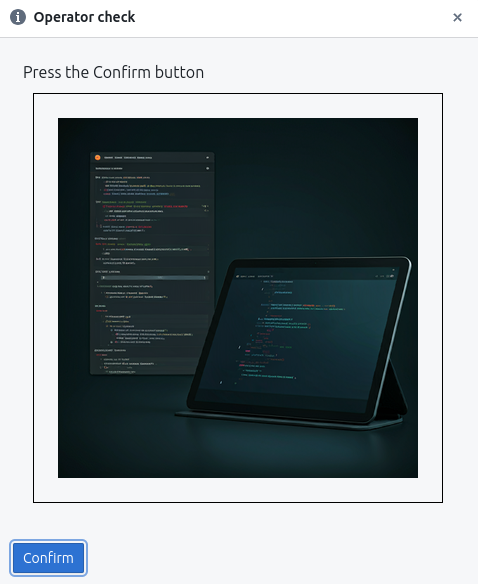
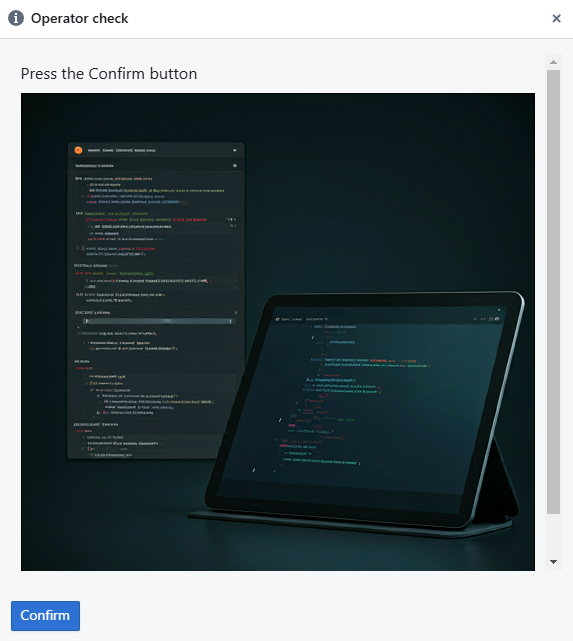
[hardpy] replace screenshots

diff --git a/hardpy/pytest_hardpy/utils/dialog_box.py b/hardpy/pytest_hardpy/utils/dialog_box.py
@@ -28,9 +28,7 @@ class WidgetType(Enum):
 class IWidget(ABC):
     """Dialog box widget interface."""
 
-    def __init__(
-        self, widget_type: WidgetType,
-    ) -> None:
+    def __init__(self, widget_type: WidgetType) -> None:
         self.type: Final[str] = widget_type.value
         self.info: dict = {}
 
@@ -172,70 +170,6 @@ class CheckboxWidget(IWidget):
             return None
 
 
-class ImageComponent:
-    """Image component."""
-
-    def __init__(
-        self,
-        address: str,
-        width: int = 100,
-        border: int = 0,
-    ) -> None:
-        """Validate the image fields and defines the base64 if it does not exist.
-
-        Args:
-            address (str): image address
-            width (int): image width
-            border (int): image border
-
-        Raises:
-            ImageError: If both address and base64data are specified.
-        """
-        if width < 1:
-            msg = "Width must be positive"
-            raise WidgetInfoError(msg)
-
-        if border < 0:
-            msg = "Border must be non-negative"
-            raise WidgetInfoError(msg)
-
-        try:
-            with open(address, "rb") as file:  # noqa: PTH123
-                file_data = file.read()
-        except FileNotFoundError:
-            msg = "The image address is invalid"
-            raise ImageError(msg)  # noqa: B904
-        self.address = address
-        self.width = width
-        self.border = border
-        self.base64 = base64.b64encode(file_data).decode("utf-8")
-
-
-    def convert_data(self, input_data: str | None = None) -> bool:  # noqa: ARG002
-        """Get the image component data, i.e. None.
-
-        Args:
-            input_data (str | None): input string or nothing.
-
-        Returns:
-            bool: True if confirm button is pressed
-        """
-        return True
-
-    def to_dict(self) -> dict:
-        """Convert ImageComponent to dictionary.
-
-        Returns:
-            dict: ImageComponent dictionary.
-        """
-        return {
-            "address": self.address,
-            "width": self.width,
-            "base64": self.base64,
-            "border": self.border,
-        }
-
-
 class StepWidget(IWidget):
     """Step widget.
 
@@ -279,9 +213,7 @@ class StepWidget(IWidget):
 class MultistepWidget(IWidget):
     """Multistep widget."""
 
-    def __init__(
-        self, steps: list[StepWidget],
-    ) -> None:
+    def __init__(self, steps: list[StepWidget]) -> None:
         """Initialize the MultistepWidget.
 
         Args:
@@ -308,6 +240,58 @@ class MultistepWidget(IWidget):
             bool: True if confirm button is pressed
         """
         return True
+
+
+class ImageComponent:
+    """Image component."""
+
+    def __init__(
+        self,
+        address: str,
+        width: int = 100,
+        border: int = 0,
+    ) -> None:
+        """Validate the image fields and defines the base64 if it does not exist.
+
+        Args:
+            address (str): image address
+            width (int): image width
+            border (int): image border
+
+        Raises:
+            ImageError: If both address and base64data are specified.
+        """
+        if width < 1:
+            msg = "Width must be positive"
+            raise WidgetInfoError(msg)
+
+        if border < 0:
+            msg = "Border must be non-negative"
+            raise WidgetInfoError(msg)
+
+        try:
+            with open(address, "rb") as file:  # noqa: PTH123
+                file_data = file.read()
+        except FileNotFoundError:
+            msg = "The image address is invalid"
+            raise ImageError(msg)  # noqa: B904
+        self.address = address
+        self.width = width
+        self.border = border
+        self.base64 = base64.b64encode(file_data).decode("utf-8")
+
+    def to_dict(self) -> dict:
+        """Convert ImageComponent to dictionary.
+
+        Returns:
+            dict: ImageComponent dictionary.
+        """
+        return {
+            "address": self.address,
+            "width": self.width,
+            "base64": self.base64,
+            "border": self.border,
+        }
 
 
 @dataclass

diff --git a/examples/dialog_box/test_3_choice_control.py b/examples/dialog_box/test_3_choice_control.py
@@ -30,7 +30,7 @@ def test_radiobutton_with_image():
         dialog_text='Select item "one" out of several and click Confirm.',
         title_bar="Radiobutton example",
         widget=RadiobuttonWidget(fields=["one", "two", "three"]),
-        image=ImageComponent(address="assets/test.png", width=50),
+        image=ImageComponent(address="assets/image.png", width=100),
     )
     response = run_dialog_box(dbx)
     set_message(f"Selected item {response}")
@@ -56,7 +56,7 @@ def test_checkbox_with_image():
         dialog_text='Select items "one" and "two" and click the Confirm button',
         title_bar="Checkbox example",
         widget=CheckboxWidget(fields=["one", "two", "three"]),
-        image=ImageComponent(address="assets/test.png", width=50),
+        image=ImageComponent(address="assets/image.png", width=100),
     )
     response = run_dialog_box(dbx)
     set_message(f"Selected item {response}")

diff --git a/examples/dialog_box/test_2_input_field.py b/examples/dialog_box/test_2_input_field.py
@@ -30,7 +30,7 @@ def test_text_input_with_image():
         dialog_text="Type 'ok' and press the Confirm button",
         title_bar="Example of text input",
         widget=TextInputWidget(),
-        image=ImageComponent(address="assets/test.png", width=50),
+        image=ImageComponent(address="assets/image.png", width=100),
     )
     response = run_dialog_box(dbx)
     set_message(f"Entered text {response}")
@@ -57,7 +57,7 @@ def test_num_input_with_image():
         dialog_text=f"Enter the number {test_num} and press the Confirm button",
         title_bar="Example of entering a number",
         widget=NumericInputWidget(),
-        image=ImageComponent(address="assets/test.png", width=50),
+        image=ImageComponent(address="assets/image.png", width=100),
     )
     response = int(run_dialog_box(dbx))
     set_message(f"Entered number {response}")

diff --git a/examples/dialog_box/test_1_base_box.py b/examples/dialog_box/test_1_base_box.py
@@ -25,7 +25,18 @@ def test_base_dialog_box_with_image():
     dbx = DialogBox(
         title_bar="Operator check",
         dialog_text="Press the Confirm button",
-        image=ImageComponent(address="assets/test.png", width=50),
+        image=ImageComponent(address="assets/image.png", width=100),
+    )
+    response = run_dialog_box(dbx)
+    assert response
+
+
+@pytest.mark.case_name("Base dialog box with image")
+def test_base_dialog_box_with_image_with_border():
+    dbx = DialogBox(
+        title_bar="Operator check",
+        dialog_text="Press the Confirm button",
+        image=ImageComponent(address="assets/image.png", width=100, border=1),
     )
     response = run_dialog_box(dbx)
     assert response

diff --git a/examples/dialog_box/test_4_send_image.py b/examples/dialog_box/test_4_send_image.py
@@ -9,7 +9,7 @@ pytestmark = pytest.mark.module_name("Image dialog box")
 def test_upload_image():
     dbx = DialogBox(
         dialog_text="Test image",
-        image=ImageComponent(address="assets/test.png", width=50),
+        image=ImageComponent(address="assets/image.png", width=100),
     )
     response = run_dialog_box(dbx)
     assert response

diff --git a/examples/dialog_box/test_5_multiple_steps.py b/examples/dialog_box/test_5_multiple_steps.py
@@ -18,7 +18,7 @@ def test_multiple_steps():
         StepWidget(
             "Step 2",
             text="Content for step 2",
-            image=ImageComponent(address="assets/test.png", width=50),
+            image=ImageComponent(address="assets/image.png", width=100),
         ),
         StepWidget(
             "Step 3",
